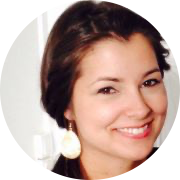
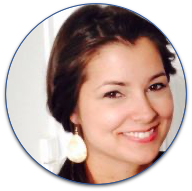
Ajout html et bordure photo

diff --git a/index.html b/index.html
@@ -41,14 +41,20 @@
 									89 ter rue Edouard Vaillant <br />
 									92300 Levallois-Perret
 								</p>
-								<p>téléphone<br />06 60 91 20 50</p>
+								<p>Téléphone<br />06 60 91 20 50</p>
 								<p>
-									email<br />
+									Email<br />
 									<a href="mailot:lisafilliette@gmail.com"
 										>lisafilliette@gmail.com</a
 									>
 								</p>
-								<p>site web<br />www.lisaflt.com</p>
+								<p>
+									Site web<br />
+
+									<a href="https://lisaflt.github.io/cv/"
+										>https://lisaflt.github.io/cv/</a
+									>
+								</p>
 								<p>Skype<br />@lisaflt</p>
 							</div>
 							<h3>à propos de moi</h3>
@@ -101,26 +107,28 @@
 
 							<div class="ecole">
 								<h4>openclassrooms</h4>
-								<h5 class="emploi">Développeur web</h5>
+								<h5 class="emploi">Développeuse web</h5>
 								<ul>
 									<li>
-										découper, assembler et intégrer tous les éléments d'une
-										maquette graphique en HTML5 et CSS
+										Découper, assembler et intégrer tous les éléments d'une
+										maquette graphique en <strong>HTML5</strong> et
+										<strong>CSS</strong>
 									</li>
-									<li>ajouter du contenu audio et vidéo en HTML5</li>
-									<li>animer les pages web avec CSS3</li>
+									<li>Ajouter du contenu audio et vidéo en HTML5</li>
+									<li>Animer les pages web avec CSS3</li>
 									<li>
-										appliquer les standards du web et les normes en vigueur
-									</li>
-									<li>
-										construire un site web fluide s'adaptant à tout type d'écran
+										Appliquer les standards du web et les normes en vigueur
 									</li>
 									<li>
-										faire réagir la page web en fonction des actions de
-										l'utilisateur en JavaScript
+										Construire un site web fluide s'adaptant à tout type d'écran
 									</li>
 									<li>
-										créer, gérer et afficher le contenu d'une base de données
+										Faire réagir la page web en fonction des actions de
+										l'utilisateur en <strong>JavaScript</strong>
+									</li>
+									<li>
+										Créer, gérer et afficher le contenu d'une
+										<strong>base de données</strong>
 									</li>
 								</ul>
 							</div>
@@ -169,19 +177,19 @@
 									<h5>Assistante de production</h5>
 									<ul>
 										<li>
-											réalisation des dossiers relatifs au financement et à
+											Réalisation des dossiers relatifs au financement et à
 											l'exploitation des films
 										</li>
 										<li>
-											suivi administratif et financier de la société et des
+											Suivi administratif et financier de la société et des
 											tournages : contrats de travail des techniques et des
 											comédiens, déclaration à l'embauche
 										</li>
 										<li>
-											coordination de la post-production, suivi des livraisons
+											Coordination de la post-production, suivi des livraisons
 											du matériel technique
 										</li>
-										<li>relation avec les distributeurs et les chaînes TV</li>
+										<li>Relation avec les distributeurs et les chaînes TV</li>
 									</ul>
 								</div>
 							</div>
@@ -227,22 +235,18 @@
 							<h3>recommandations</h3>
 						</div>
 						<div class="recommandation">
-							<div class="ecole">
-								<p>
-									Christophe Cervoni<br />
-									Président,Axel Films<br />
-									00 00 00 00 00<br />
-									name@gmail.com
-								</p>
-							</div>
-							<div class="ecole">
-								<p>
-									Mathilde Buenerd<br />
-									Mentor OPC<br />
-									00 00 00 00 00<br />
-									name@gmail.com
-								</p>
-							</div>
+							<p>
+								Christophe Cervoni<br />
+								Président,Axel Films<br />
+								00 00 00 00 00<br />
+								name@gmail.com
+							</p>
+							<p>
+								Mathilde Buenerd<br />
+								Mentor OPC<br />
+								00 00 00 00 00<br />
+								name@gmail.com
+							</p>
 						</div>
 					</section>
 				</div>

diff --git a/style.css b/style.css
@@ -22,21 +22,22 @@ html {
 }
 
 #bordureGauche {
-	background-color: #ff8a65;
+	background-color: #558d9e;
 	width: 20%;
-	min-width: 250px;
+	min-width: 300px;
 }
 
 #photo {
-	background-color: #ff8a65;
+	background-color: #558d9e;
 	width: 20%;
 	text-align: center;
-	min-width: 250px;
+	min-width: 300px;
+	padding-top: 20px;
 }
 
 aside h3 {
 	background-color: #424242;
-	color: #ff8a65;
+	color: #558d9e;
 	text-transform: uppercase;
 	text-align: center;
 	padding-top: 5px;
@@ -44,13 +45,14 @@ aside h3 {
 }
 
 aside p {
-	text-align: justify;
+	text-align: center;
 	margin-left: 30px;
-	max-width: 200px;
+	max-width: 240px;
+	font-weight: bold;
 }
 
 .loisirs {
-	padding-top: 400px;
+	padding-top: 420px;
 }
 
 .photo {
@@ -64,11 +66,11 @@ aside p {
 }
 
 .prenom {
-	color: #ff8a65;
+	color: #558d9e;
 }
 
 .dev {
-	border-bottom: 2px solid #ff8a65;
+	border-bottom: 2px solid #558d9e;
 }
 
 #nomprenom {
@@ -78,7 +80,7 @@ aside p {
 
 article h3 {
 	text-transform: uppercase;
-	border-bottom: 2px solid #ff8a65;
+	border-bottom: 2px solid #558d9e;
 	padding-bottom: 2px;
 }
 
@@ -97,6 +99,10 @@ article h3 {
 	flex-direction: row;
 	justify-content: space-between;
 	padding-top: 20px;
+}
+
+strong {
+	font-weight: bold;
 }
 
 .ecole {
@@ -123,7 +129,7 @@ section p {
 .titreBordureDroite {
 	display: flex;
 	align-items: center;
-	border-bottom: 2px solid #ff8a65;
+	border-bottom: 2px solid #558d9e;
 }
 
 .icone {
@@ -138,7 +144,7 @@ section p {
 
 .iconeDates {
 	font-size: 10px;
-	color: #ff8a65;
+	color: #558d9e;
 	padding-right: 10px;
 }
 
@@ -146,11 +152,10 @@ section p {
 	display: flex;
 	justify-content: space-around;
 	font-size: 30px;
-	color: #424242;
 }
 
 .iconesHobbies {
-	border: 2px solid #424242;
+	border: 2px solid;
 	border-radius: 50%;
 	width: 56px;
 	height: 45px;
@@ -159,12 +164,12 @@ section p {
 
 .recommandation {
 	display: flex;
+	justify-content: space-around;
 }
 
 @media all and (max-width: 1024px) {
 	#blocPage {
 		width: auto;
-		margin-left: 5px;
 	}
 }
 
